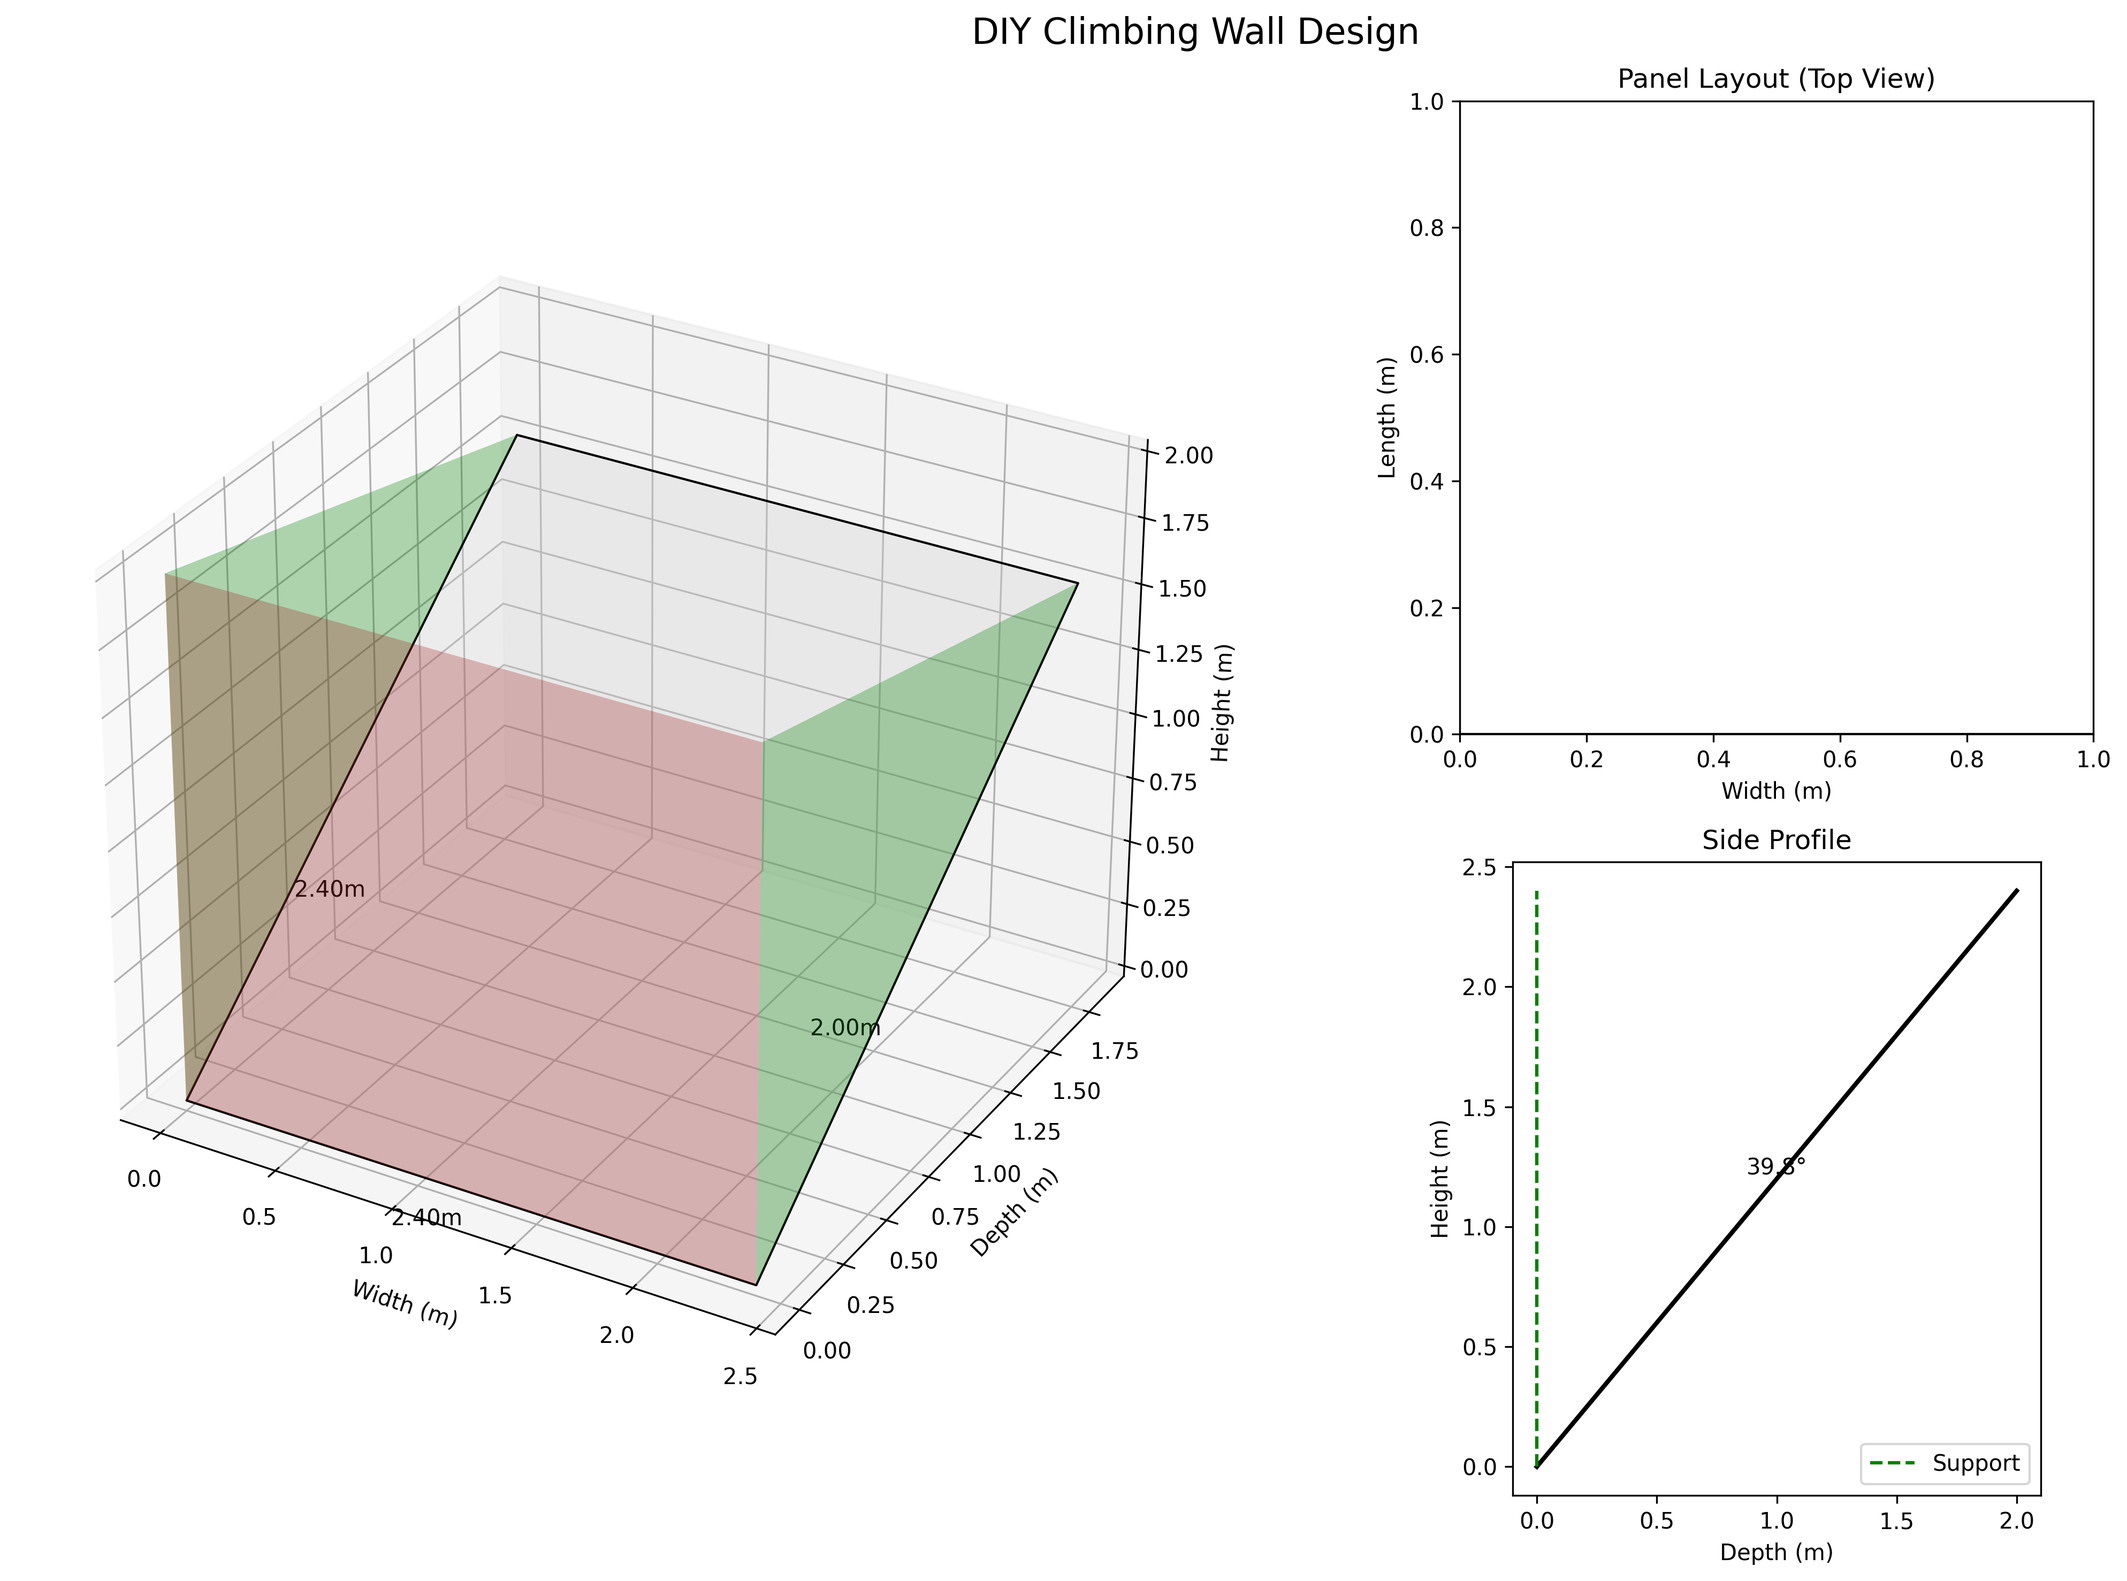
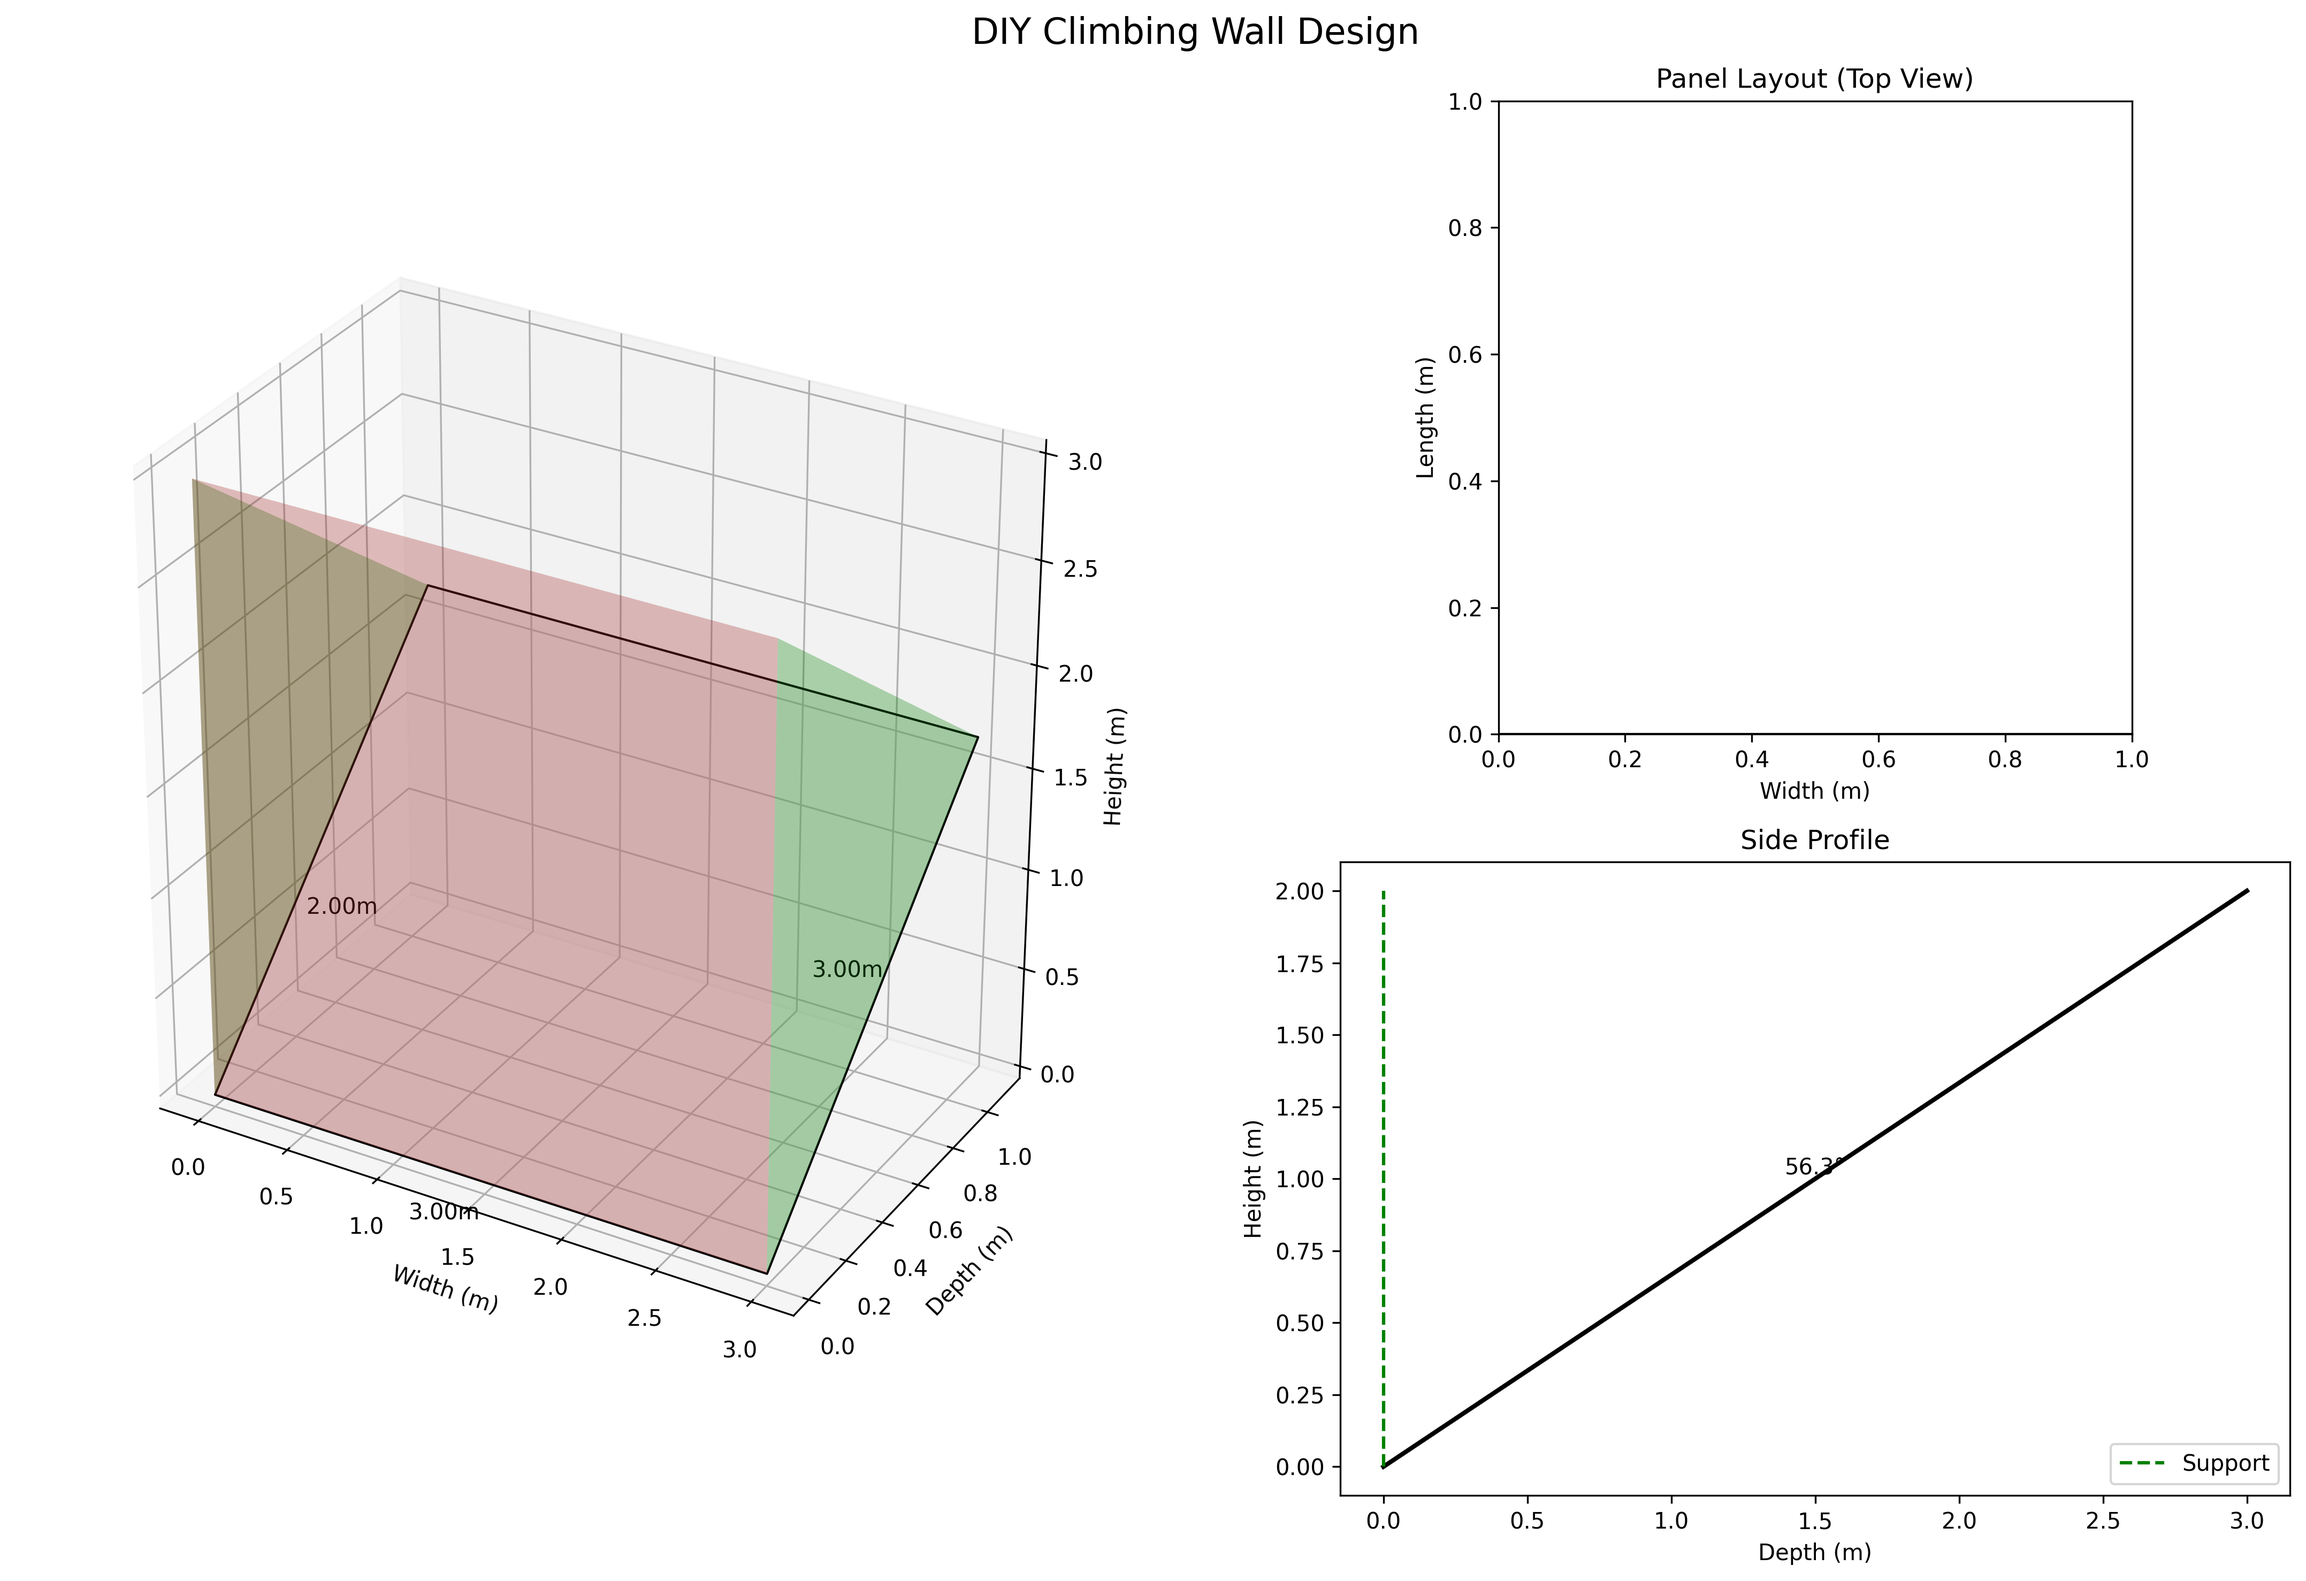
changed up input vals

diff --git a/wall_designer.py b/wall_designer.py
@@ -6,9 +6,9 @@ import numpy as np
 from mpl_toolkits.mplot3d.art3d import Poly3DCollection
 import os
 
-HEIGHT = 1.77  # meters
-WIDTH = 1.2   # meters
-DEPTH = 1.94   # meters
+HEIGHT = 2  # meters
+WIDTH = 3   # meters
+DEPTH = 3   # meters
 
 @dataclass
 class WallSpec:
@@ -351,7 +351,7 @@ def frange(start, stop, step):
         start += step
 
 if __name__ == "__main__":
-    wall = WallSpec(height=2.4, width=2.4, depth=2.0)  # depth adjusted to accommodate calculated angle
+    wall = WallSpec(height=HEIGHT, width=WIDTH, depth=DEPTH)  # depth adjusted to accommodate calculated angle
     materials = calculate_wall(wall)
 
     print("=== DIY Climbing Wall Plan ===")
